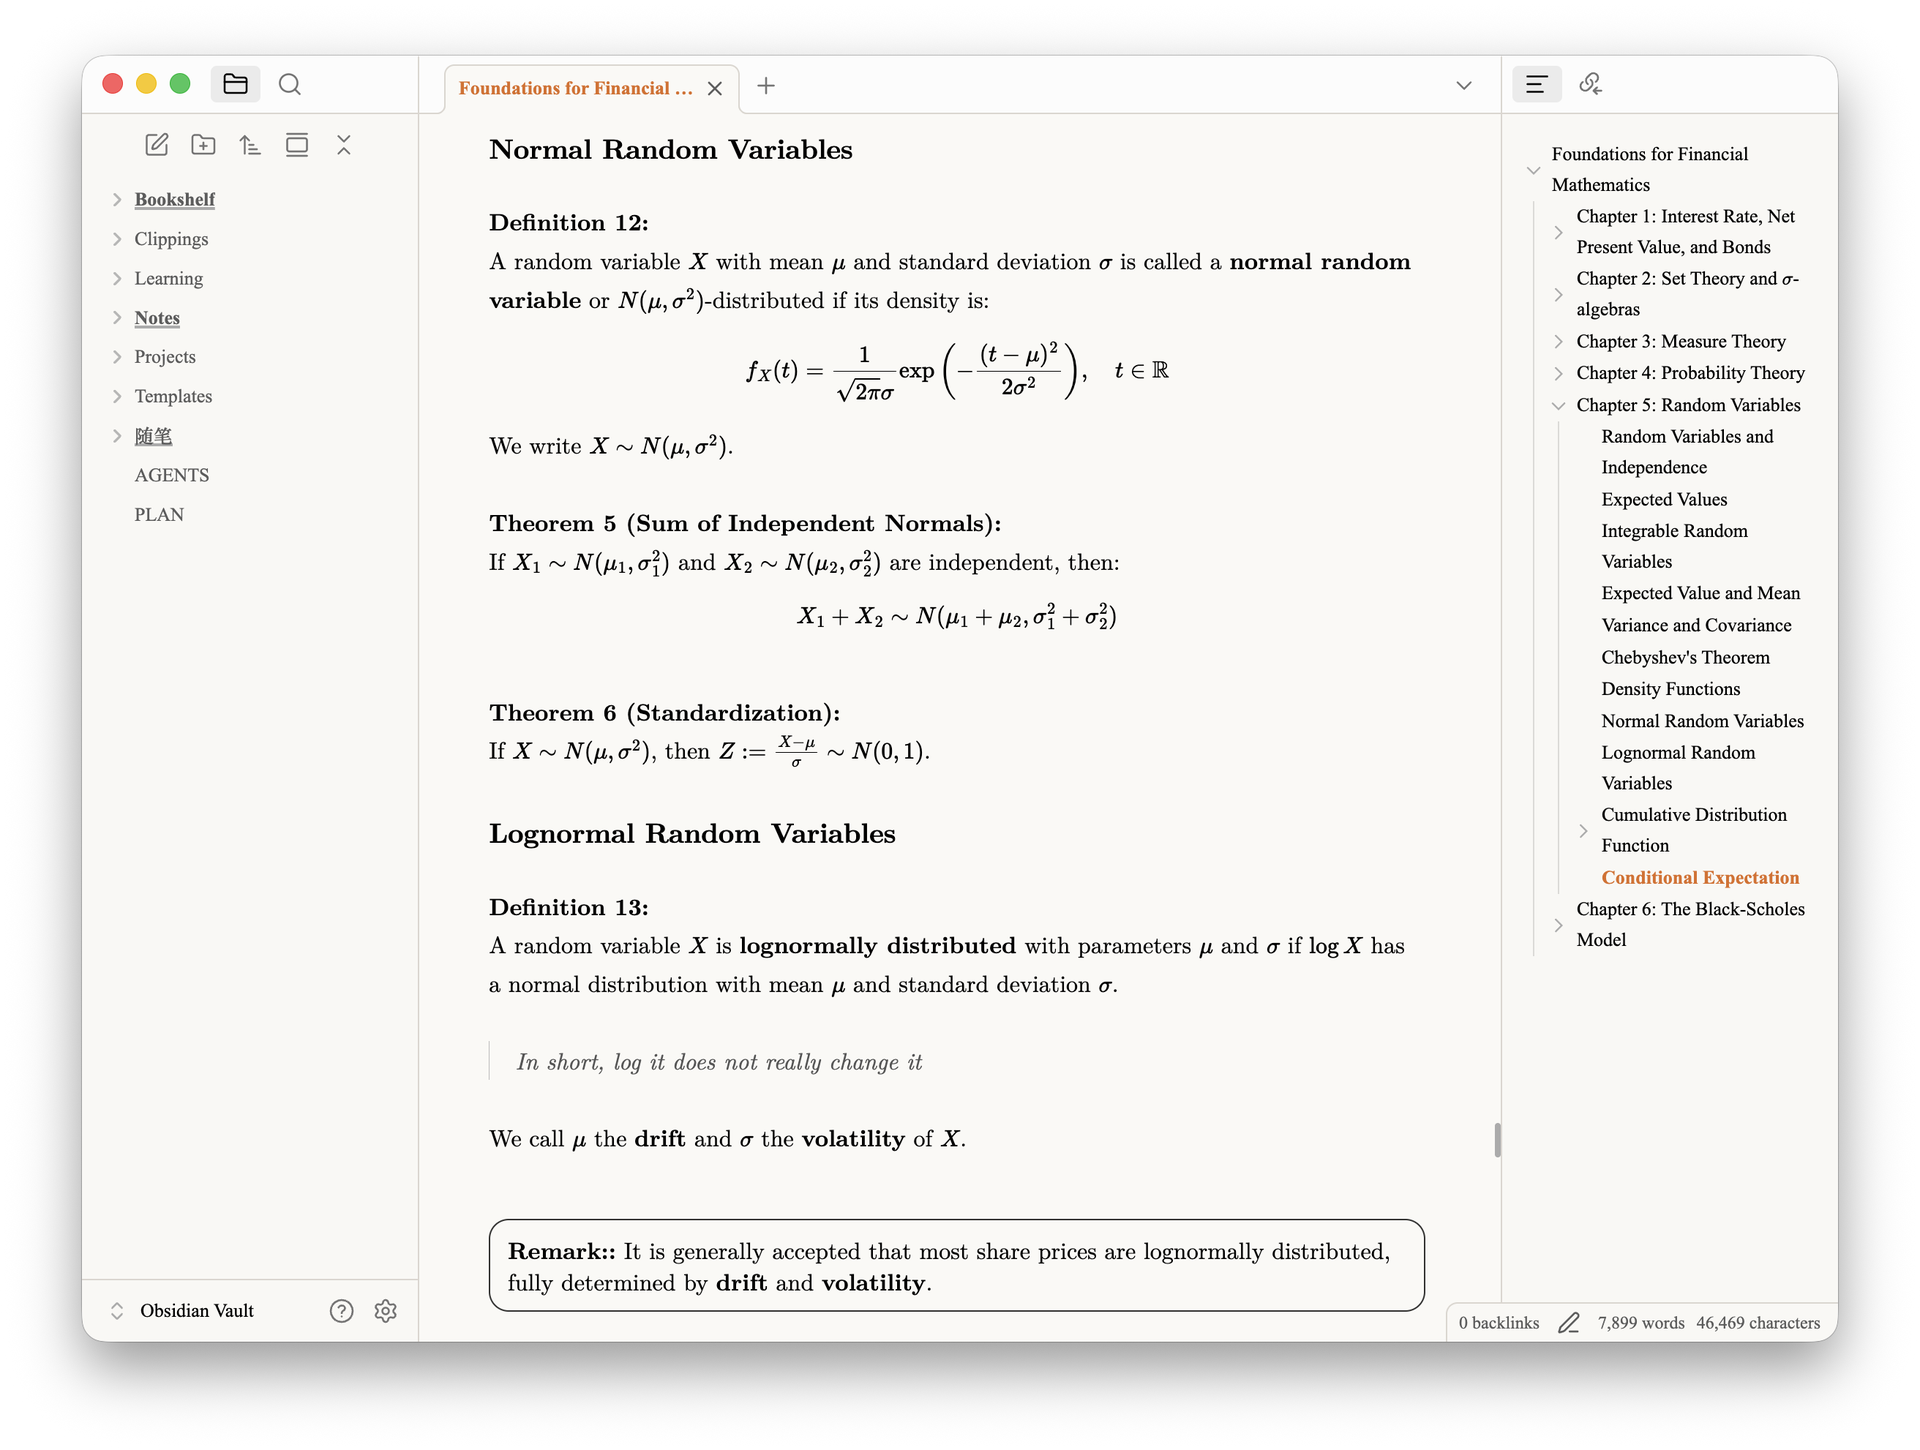
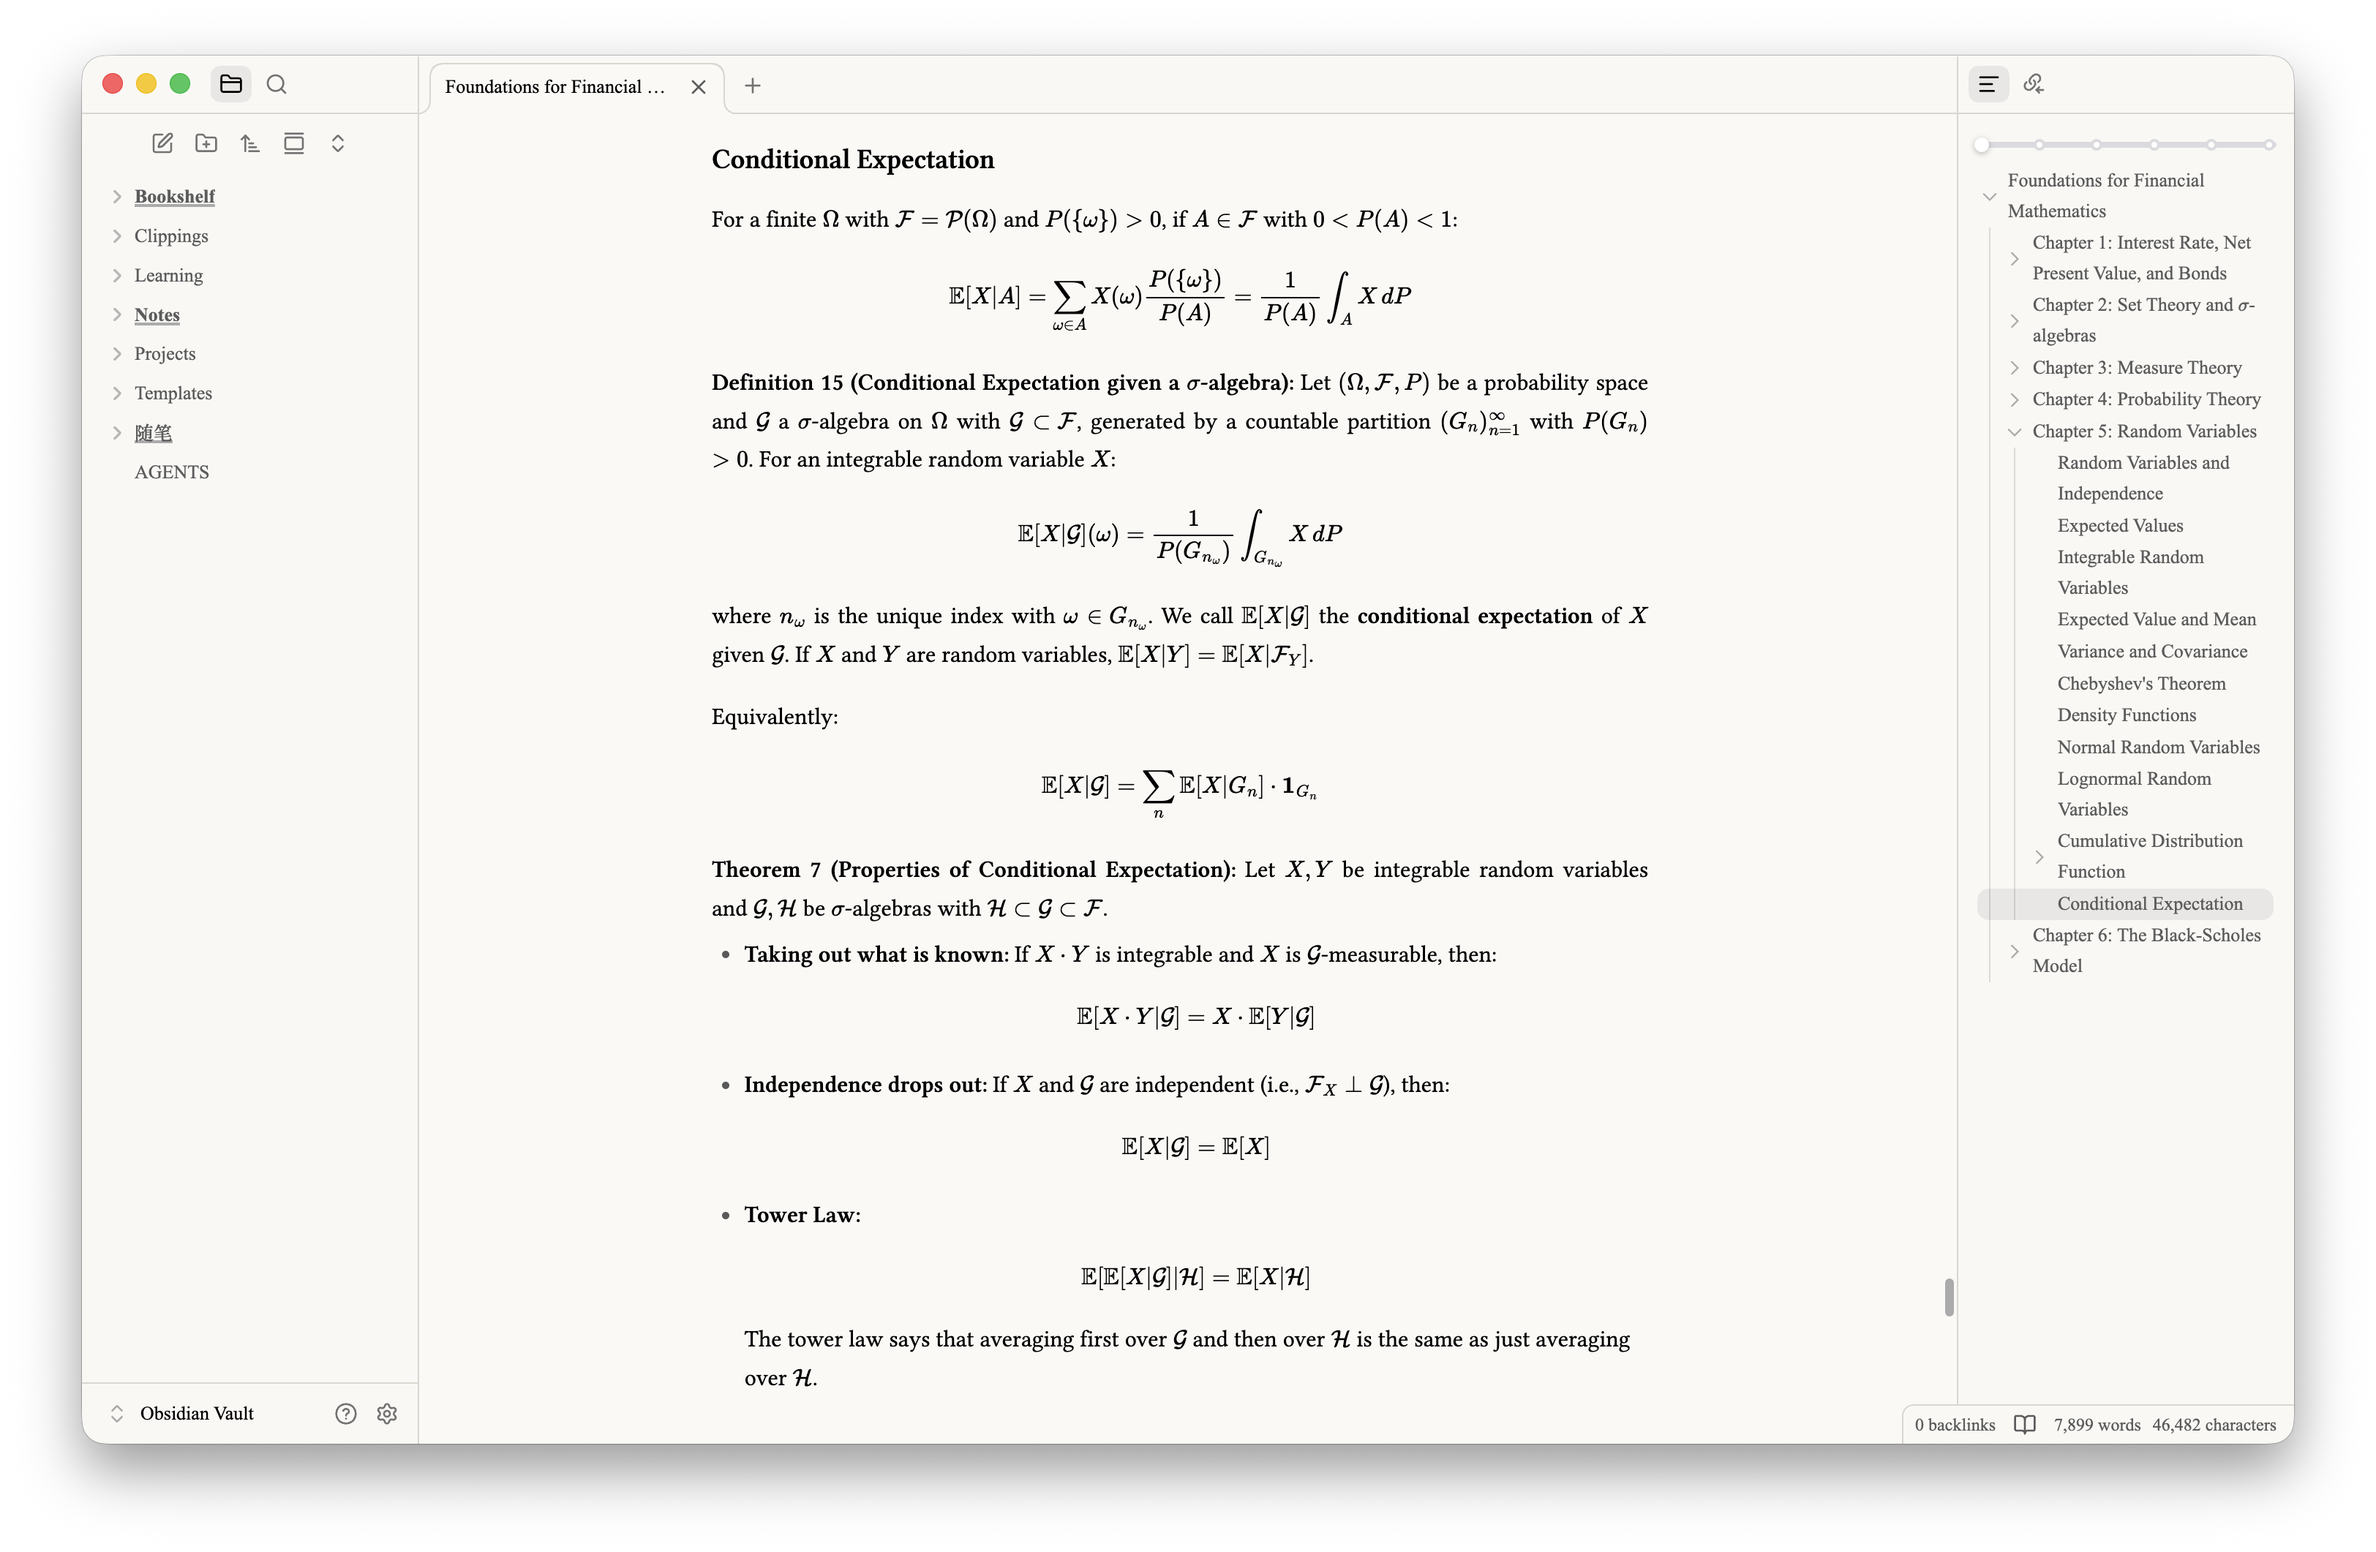
Update screenshots and README

diff --git a/README.md b/README.md
@@ -15,21 +15,11 @@ Composed uses the text and monospace fonts configured in Obsidian. For a more ex
 
 ## Screenshots
 
-### Practical example (Live Preview)
+![screenshot1](assets/screenshots/lilypond-note.png)
 
-![Practical example in Live Preview](assets/screenshots/practical-example.png)
+![screenshot2](assets/screenshots/bullet-and-tables.png)
 
-### Bullets, prose, and headings (Reading view)
-
-![Bullets, prose, and headings in Reading view](assets/screenshots/bullets-prose-and-headings.png)
-
-### Tables and mathematics (Reading view)
-
-![Tables and mathematics in Reading view](assets/screenshots/tables-and-math.png)
-
-### Code and quotations (Reading view)
-
-![Code and quotations in Reading view](assets/screenshots/code-and-quotation.png)
+![screenshot3](assets/screenshots/practical-example.png)
 
 ## Using the sidebars
 
@@ -62,7 +52,7 @@ This github repo includes a two-page [sample PDF](assets/print/example-note.pdf)
 
 Composed intentionally supports only the light color scheme. The invisible desktop edge controls are also intentional; see [Using the sidebars](#using-the-sidebars) before enabling the theme to avoid confusion over the missing sidebar toggle buttons.
 
-The theme does not override Obsidian’s accent color or font settings. For the best experience, adjust them in **Settings → Appearance** to suit your preferences. The screenshots use `#cf681e` for the accent color, `Times New Roman` for the interface font, and `Latin Modern Roman` for the text font. You may also want to hide the inline title and ribbon—and, optionally, the title bar—for a cleaner interface.
+The theme does not override Obsidian’s accent color or font settings. For the best experience, adjust them in **Settings → Appearance** to suit your preferences. The screenshots use  `Libertinus Serif` for the text font. You may also want to hide the inline title and ribbon—and, optionally, the title bar—for a cleaner interface.
 
 If you are comfortable editing CSS, feel free to review `theme.css` and adapt it to your preferences, either manually or with the help of AI agents.
 
